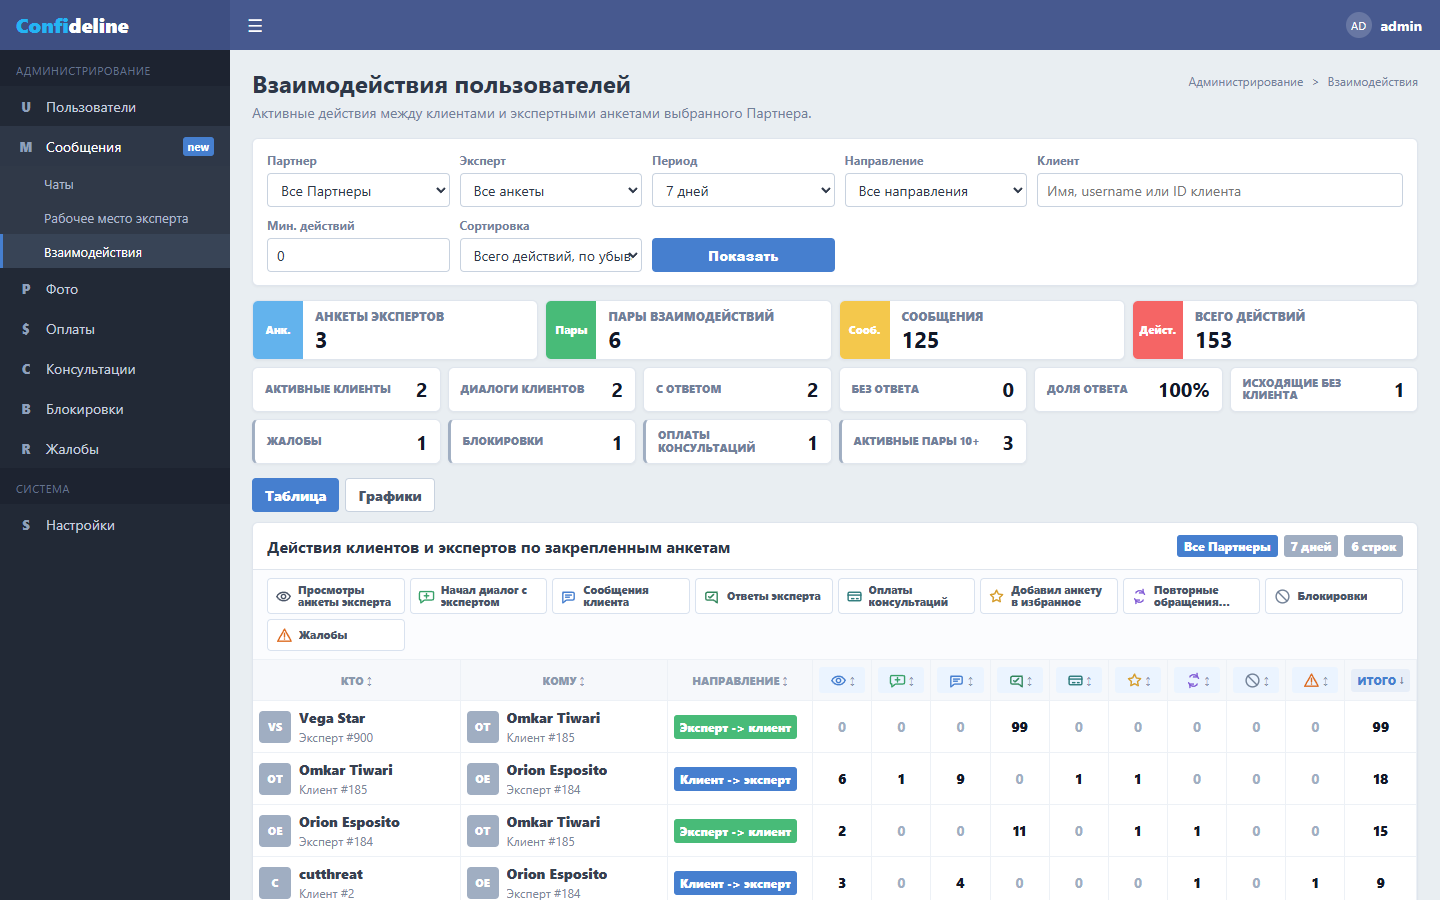
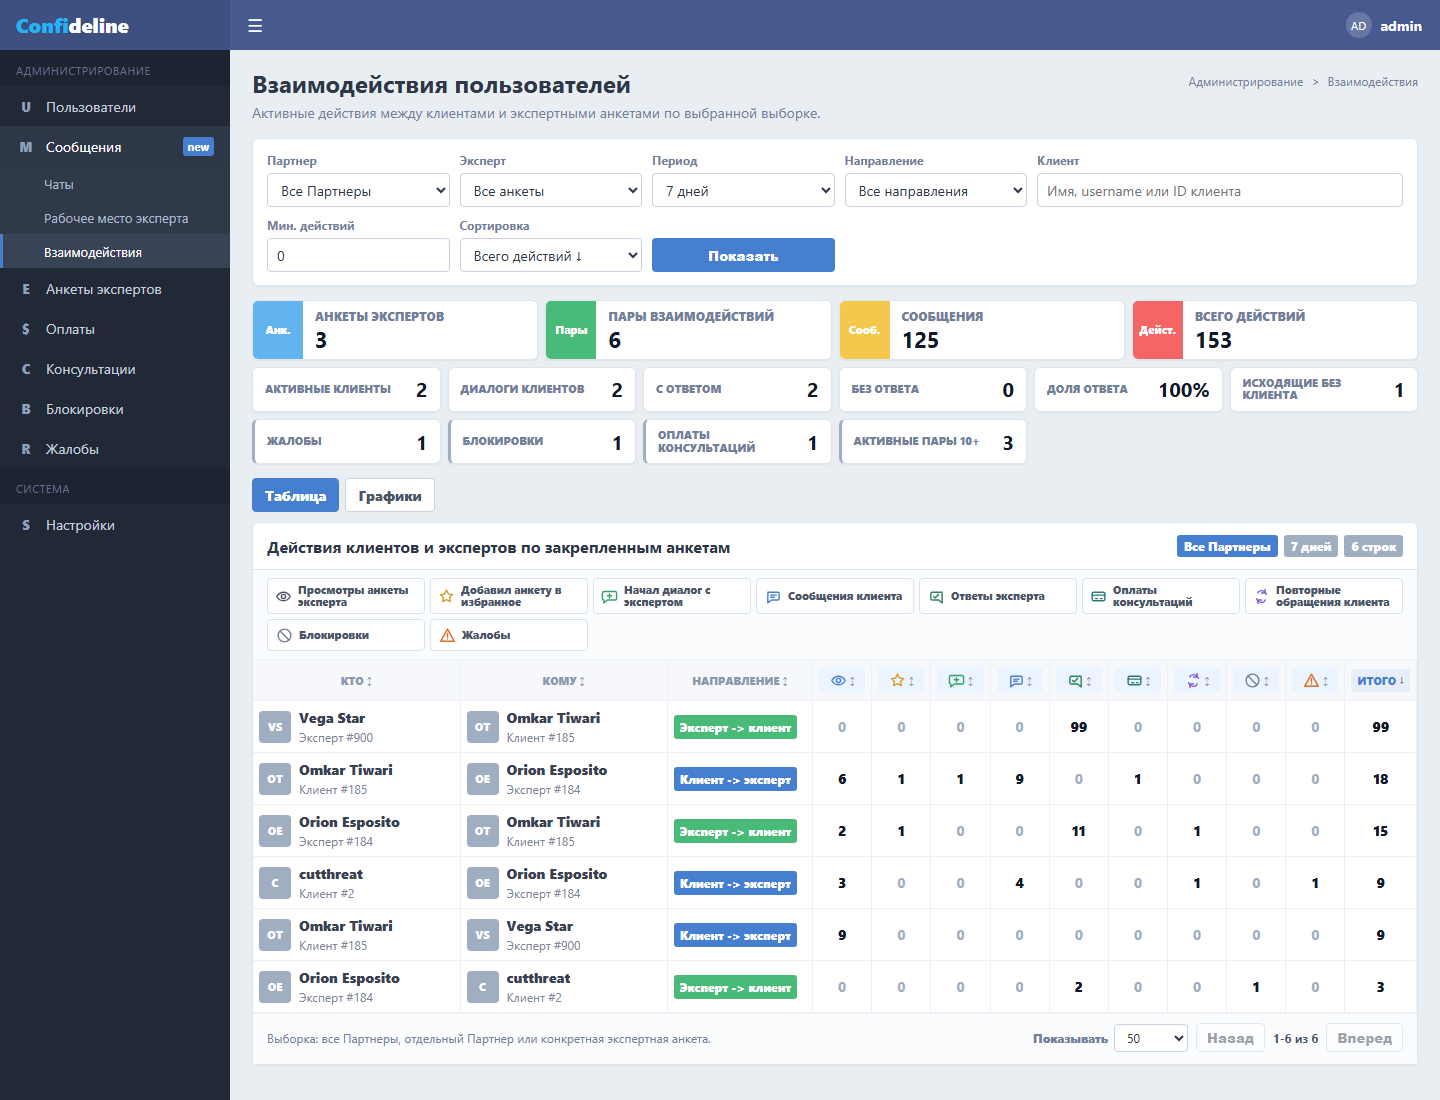
Finalize partner analytics role UX

diff --git a/web/partner-interactions-analytics/admin.html b/web/partner-interactions-analytics/admin.html
@@ -24,7 +24,7 @@
         <a href="#">Рабочее место эксперта</a>
         <a class="active" href="#">Взаимодействия</a>
       </div>
-      <a href="#"><span>P</span>Фото</a>
+      <a href="#"><span>E</span>Анкеты экспертов</a>
       <a href="#"><span>$</span>Оплаты</a>
       <a href="#"><span>C</span>Консультации</a>
       <a href="#"><span>B</span>Блокировки</a>
@@ -38,7 +38,7 @@
     <section class="page-head">
       <div>
         <h1>Взаимодействия пользователей</h1>
-        <p>Активные действия между клиентами и экспертными анкетами выбранного Партнера.</p>
+        <p>Активные действия между клиентами и экспертными анкетами по выбранной выборке.</p>
       </div>
       <ol>
         <li>Администрирование</li>
@@ -89,17 +89,17 @@
       <label>
         <span>Сортировка</span>
         <select id="sort">
-          <option value="total_desc" selected>Всего действий, по убыванию</option>
-          <option value="total_asc">Всего действий, по возрастанию</option>
-          <option value="profileViews_desc">Просмотры анкет, по убыванию</option>
-          <option value="favorites_desc">Избранное, по убыванию</option>
-          <option value="chatStarts_desc">Старты диалога, по убыванию</option>
-          <option value="clientMessages_desc">Сообщения клиентов, по убыванию</option>
-          <option value="expertReplies_desc">Ответы экспертов, по убыванию</option>
-          <option value="paidConsultations_desc">Оплаты консультаций, по убыванию</option>
-          <option value="repeatRequests_desc">Повторные обращения, по убыванию</option>
-          <option value="blocks_desc">Блокировки, по убыванию</option>
-          <option value="reports_desc">Жалобы, по убыванию</option>
+          <option value="total_desc" selected>Всего действий ↓</option>
+          <option value="total_asc">Всего действий ↑</option>
+          <option value="profileViews_desc">Просмотры анкет ↓</option>
+          <option value="favorites_desc">Избранное ↓</option>
+          <option value="chatStarts_desc">Старты диалога ↓</option>
+          <option value="clientMessages_desc">Сообщения клиентов ↓</option>
+          <option value="expertReplies_desc">Ответы экспертов ↓</option>
+          <option value="paidConsultations_desc">Оплаты консультаций ↓</option>
+          <option value="repeatRequests_desc">Повторные обращения ↓</option>
+          <option value="blocks_desc">Блокировки ↓</option>
+          <option value="reports_desc">Жалобы ↓</option>
         </select>
       </label>
       <button type="button" id="apply">Показать</button>
@@ -192,7 +192,7 @@
         </table>
       </div>
       <footer class="table-footer">
-        <span>Админ может смотреть всех Партнеров, отдельного Партнера или конкретную экспертную анкету.</span>
+        <span>Выборка: все Партнеры, отдельный Партнер или конкретная экспертная анкета.</span>
         <div class="pager">
           <label><span>Показывать</span><select id="pageSize"><option value="50" selected>50</option><option value="100">100</option><option value="250">250</option><option value="500">500</option></select></label>
           <button type="button" id="prevPage">Назад</button><strong id="pageInfo">0-0 из 0</strong><button type="button" id="nextPage">Вперед</button>

diff --git a/web/partner-interactions-analytics/partner.html b/web/partner-interactions-analytics/partner.html
@@ -20,7 +20,7 @@
       <a class="active" href="#"><span>A</span>Активность</a>
       <a href="#"><span>E</span>Анкеты экспертов</a>
       <a href="#"><span>M</span>Сообщения<b>new</b></a>
-      <a href="#"><span>P</span>Фото</a>
+      <a href="#"><span>C</span>Консультации</a>
       <div class="menu-section">Аккаунт</div>
       <a href="#"><span>S</span>Настройки</a>
     </nav>
@@ -30,7 +30,7 @@
     <section class="page-head">
       <div>
         <h1>Активность закрепленных анкет</h1>
-        <p>Контроль действий между клиентами и экспертными анкетами, которыми управляет текущий партнер.</p>
+        <p>Контроль действий между клиентами и закрепленными экспертными анкетами.</p>
       </div>
       <ol>
         <li>Кабинет партнера</li>
@@ -76,17 +76,17 @@
       <label>
         <span>Сортировка</span>
         <select id="sort">
-          <option value="total_desc" selected>Всего действий, по убыванию</option>
-          <option value="total_asc">Всего действий, по возрастанию</option>
-          <option value="profileViews_desc">Просмотры анкет, по убыванию</option>
-          <option value="favorites_desc">Избранное, по убыванию</option>
-          <option value="chatStarts_desc">Старты диалога, по убыванию</option>
-          <option value="clientMessages_desc">Сообщения клиентов, по убыванию</option>
-          <option value="expertReplies_desc">Ответы экспертов, по убыванию</option>
-          <option value="paidConsultations_desc">Оплаты консультаций, по убыванию</option>
-          <option value="repeatRequests_desc">Повторные обращения, по убыванию</option>
-          <option value="blocks_desc">Блокировки, по убыванию</option>
-          <option value="reports_desc">Жалобы, по убыванию</option>
+          <option value="total_desc" selected>Всего действий ↓</option>
+          <option value="total_asc">Всего действий ↑</option>
+          <option value="profileViews_desc">Просмотры анкет ↓</option>
+          <option value="favorites_desc">Избранное ↓</option>
+          <option value="chatStarts_desc">Старты диалога ↓</option>
+          <option value="clientMessages_desc">Сообщения клиентов ↓</option>
+          <option value="expertReplies_desc">Ответы экспертов ↓</option>
+          <option value="paidConsultations_desc">Оплаты консультаций ↓</option>
+          <option value="repeatRequests_desc">Повторные обращения ↓</option>
+          <option value="blocks_desc">Блокировки ↓</option>
+          <option value="reports_desc">Жалобы ↓</option>
         </select>
       </label>
       <button type="button" id="apply">Показать</button>
@@ -179,7 +179,7 @@
         </table>
       </div>
       <footer class="table-footer">
-        <span>Партнер видит только свои закрепленные анкеты; фильтр по эксперту нужен для работы с 5-30 анкетами.</span>
+        <span>Выборка ограничена закрепленными анкетами Партнера.</span>
         <div class="pager">
           <label><span>Показывать</span><select id="pageSize"><option value="50" selected>50</option><option value="100">100</option><option value="250">250</option><option value="500">500</option></select></label>
           <button type="button" id="prevPage">Назад</button><strong id="pageInfo">0-0 из 0</strong><button type="button" id="nextPage">Вперед</button>

diff --git a/web/partner-interactions-analytics/expert.html b/web/partner-interactions-analytics/expert.html
@@ -19,7 +19,7 @@
       <div class="menu-section">Кабинет эксперта</div>
       <a class="active" href="#"><span>A</span>Активность</a>
       <a href="#"><span>M</span>Сообщения<b>new</b></a>
-      <a href="#"><span>P</span>Фото</a>
+      <a href="#"><span>C</span>Консультации</a>
       <a href="#"><span>R</span>Отзывы</a>
       <div class="menu-section">Аккаунт</div>
       <a href="#"><span>S</span>Настройки</a>
@@ -30,7 +30,7 @@
     <section class="page-head">
       <div>
         <h1>Активность моей анкеты</h1>
-        <p>Контроль действий между клиентами и текущей экспертной анкетой.</p>
+        <p>Контроль действий клиентов и ответов по текущей экспертной анкете.</p>
       </div>
       <ol>
         <li>Кабинет эксперта</li>
@@ -70,17 +70,17 @@
       <label>
         <span>Сортировка</span>
         <select id="sort">
-          <option value="total_desc" selected>Всего действий, по убыванию</option>
-          <option value="total_asc">Всего действий, по возрастанию</option>
-          <option value="profileViews_desc">Просмотры анкет, по убыванию</option>
-          <option value="favorites_desc">Избранное, по убыванию</option>
-          <option value="chatStarts_desc">Старты диалога, по убыванию</option>
-          <option value="clientMessages_desc">Сообщения клиентов, по убыванию</option>
-          <option value="expertReplies_desc">Ответы экспертов, по убыванию</option>
-          <option value="paidConsultations_desc">Оплаты консультаций, по убыванию</option>
-          <option value="repeatRequests_desc">Повторные обращения, по убыванию</option>
-          <option value="blocks_desc">Блокировки, по убыванию</option>
-          <option value="reports_desc">Жалобы, по убыванию</option>
+          <option value="total_desc" selected>Всего действий ↓</option>
+          <option value="total_asc">Всего действий ↑</option>
+          <option value="profileViews_desc">Просмотры анкет ↓</option>
+          <option value="favorites_desc">Избранное ↓</option>
+          <option value="chatStarts_desc">Старты диалога ↓</option>
+          <option value="clientMessages_desc">Сообщения клиентов ↓</option>
+          <option value="expertReplies_desc">Ответы экспертов ↓</option>
+          <option value="paidConsultations_desc">Оплаты консультаций ↓</option>
+          <option value="repeatRequests_desc">Повторные обращения ↓</option>
+          <option value="blocks_desc">Блокировки ↓</option>
+          <option value="reports_desc">Жалобы ↓</option>
         </select>
       </label>
       <button type="button" id="apply">Показать</button>
@@ -173,7 +173,7 @@
         </table>
       </div>
       <footer class="table-footer">
-        <span>Эксперт видит только взаимодействия клиентов со своей анкетой; поиск и страницы нужны для 100-1000 диалогов.</span>
+        <span>Выборка ограничена текущей экспертной анкетой.</span>
         <div class="pager">
           <label><span>Показывать</span><select id="pageSize"><option value="50" selected>50</option><option value="100">100</option><option value="250">250</option><option value="500">500</option></select></label>
           <button type="button" id="prevPage">Назад</button><strong id="pageInfo">0-0 из 0</strong><button type="button" id="nextPage">Вперед</button>

diff --git a/web/partner-interactions-analytics/assets/partner-interactions.js b/web/partner-interactions-analytics/assets/partner-interactions.js
@@ -434,13 +434,13 @@
     if (audience === 'admin') {
       return [
         { value: 'partner', label: 'Партнеры' },
-        { value: 'expert', label: 'Экспертные анкеты' },
+        { value: 'expert', label: 'Анкеты' },
         { value: 'client', label: 'Клиенты' }
       ];
     }
     if (audience === 'partner') {
       return [
-        { value: 'expert', label: 'Закрепленные анкеты' },
+        { value: 'expert', label: 'Анкеты' },
         { value: 'client', label: 'Клиенты' }
       ];
     }
@@ -749,7 +749,7 @@
 
     const top = comparison.rows.slice().sort((a, b) => b.value - a.value)[0];
     const response = result.qualitySummary.responseRate === null ? 'нет данных' : result.qualitySummary.responseRate + '%';
-    return 'Главный срез: ' + top.label + ' - ' + formatValue(top.value) + ' по показателю "' + getMetricLabel(state.chartMetric) + '". Для эзотерических консультаций обязательно сопоставляем объем с долей ответа ' + response + ', жалобами и блокировками: это контроль качества сопровождения, а не просто счетчик активности.';
+    return 'Лидер: ' + top.label + ' - ' + formatValue(top.value) + ' по показателю "' + getMetricLabel(state.chartMetric) + '". Контроль качества: доля ответа ' + response + ', жалобы и блокировки.';
   }
 
   function splitPair(row) {

diff --git a/web/partner-interactions-analytics/assets/partner-interactions.css b/web/partner-interactions-analytics/assets/partner-interactions.css
@@ -1004,7 +1004,7 @@ body.debug-mode .debug-only {
 
 .action-legend {
   display: grid;
-  grid-template-columns: repeat(auto-fit, minmax(136px, 1fr));
+  grid-template-columns: repeat(auto-fit, minmax(152px, 1fr));
   gap: 5px;
   overflow: visible;
   padding: 8px 14px;
@@ -1030,10 +1030,8 @@ body.debug-mode .debug-only {
   font-weight: 800;
   line-height: 1.08;
   white-space: normal;
-  display: -webkit-box;
-  -webkit-line-clamp: 2;
-  -webkit-box-orient: vertical;
   overflow: hidden;
+  overflow-wrap: anywhere;
 }
 
 .legend-chip.muted {

diff --git a/web/partner-interactions-analytics/docs/partner-interactions-final-review-2026-06-01.md b/web/partner-interactions-analytics/docs/partner-interactions-final-review-2026-06-01.md
@@ -59,7 +59,7 @@ Legacy dating/private-content actions не входят в текущий мак
 
 ```text
 status: PASS
-checkedAt: 2026-06-01T01:04:07
+checkedAt: 2026-06-01T10:55:48
 analyticsStatus: PASS
 analyticsCaseCount: 6
 simulatorStatus: PASS
@@ -88,6 +88,29 @@ events: 48000
 - сортировки идут в том же порядке;
 - показатели графиков идут в том же порядке;
 - роли не расширяют область доступа.
+
+## Финальный UX/UI проход по ролям
+
+Дата прохода: 2026-06-01.
+
+Проверены текущими скриншотами:
+
+- Админ: таблица и графики.
+- Партнер: таблица и графики.
+- Эксперт: таблица и графики.
+
+Решения финального прохода:
+
+- Админ видит все Партнеры, отдельного Партнера, экспертную анкету или клиента.
+- Партнер видит только закрепленные за ним экспертные анкеты.
+- Эксперт видит только текущую экспертную анкету и клиентов этой анкеты.
+- Навигация очищена от нерелевантного фото-раздела: для консультационного продукта оставлены активность, анкеты, сообщения, консультации, отзывы/жалобы, настройки.
+- Сортировки сокращены до читаемого формата `Показатель ↑/↓`, чтобы не резать текст в фильтрах.
+- Легенда действий расширена и больше не обрезает `Повторные обращения клиента`.
+- Графики приведены к компактному отчетному виду: фиксированная высота, ось значений, короткий вывод, аккуратная легенда, ограниченная таблица сравнения.
+- Длинные пояснения в футерах заменены на короткую область выборки по роли.
+
+Остаточный риск: это offline-handoff без подключения к production-БД; боевое внедрение должно подтвердить источники событий и права доступа в Yii2.
 
 ## Факты
 
